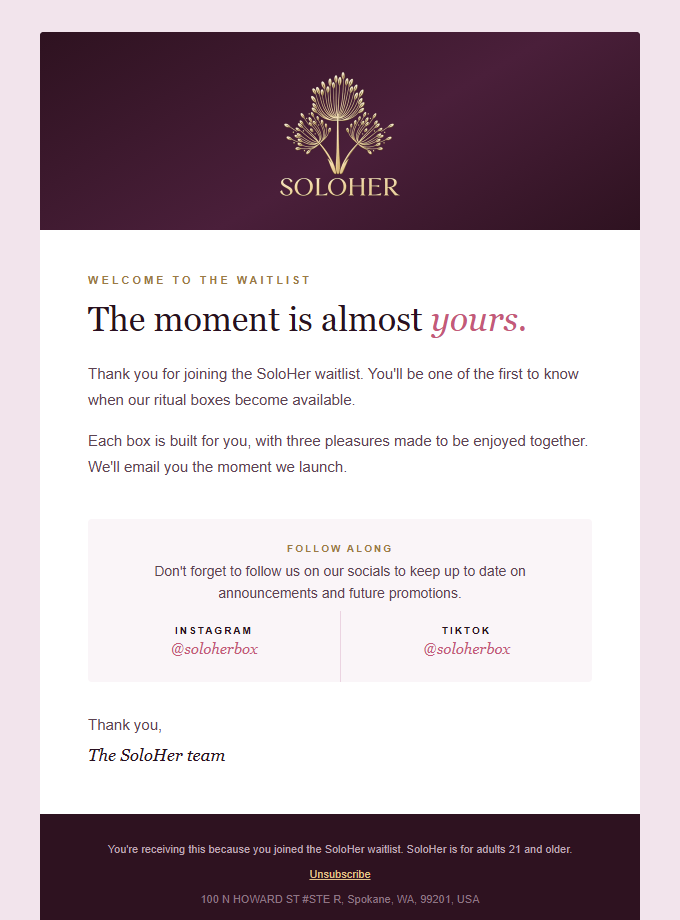
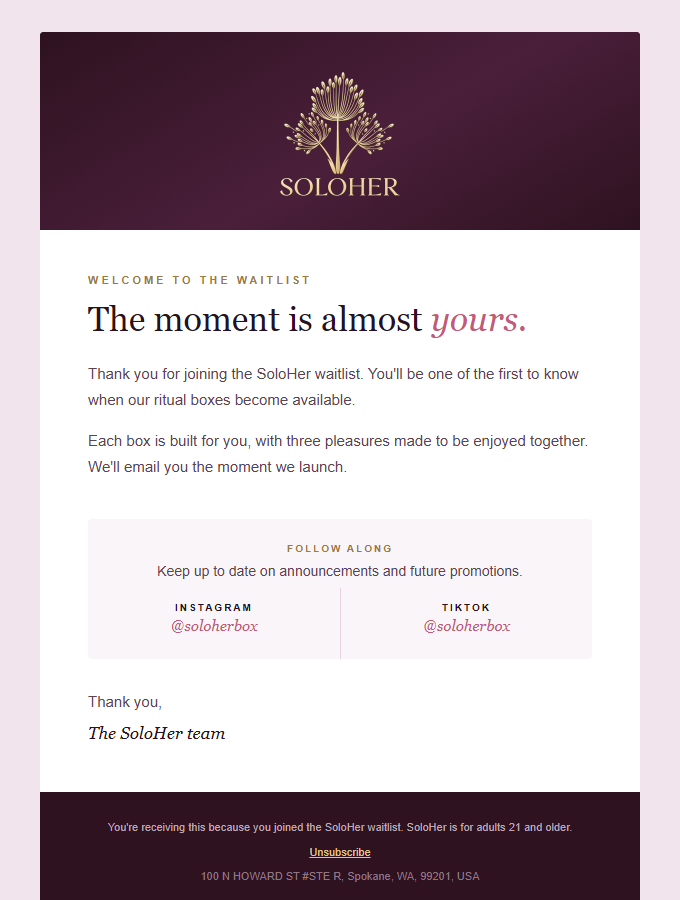
Welcome email draft: shorter socials line

diff --git a/mockups/email/waitlist-welcome.html b/mockups/email/waitlist-welcome.html
@@ -62,7 +62,7 @@
                 <tr>
                   <td align="center" colspan="2" style="padding:24px 16px 6px;">
                     <p style="margin:0 0 6px;font-family:Arial,Helvetica,sans-serif;font-size:10px;font-weight:bold;letter-spacing:2px;text-transform:uppercase;color:#9B7B45;">Follow along</p>
-                    <p style="margin:0;font-family:Arial,Helvetica,sans-serif;font-size:14px;line-height:1.6;color:#5C4352;">Don't forget to follow us on our socials to keep up to date on announcements and future promotions.</p>
+                    <p style="margin:0;font-family:Arial,Helvetica,sans-serif;font-size:14px;line-height:1.6;color:#5C4352;">Keep up to date on announcements and future promotions.</p>
                   </td>
                 </tr>
                 <tr>
